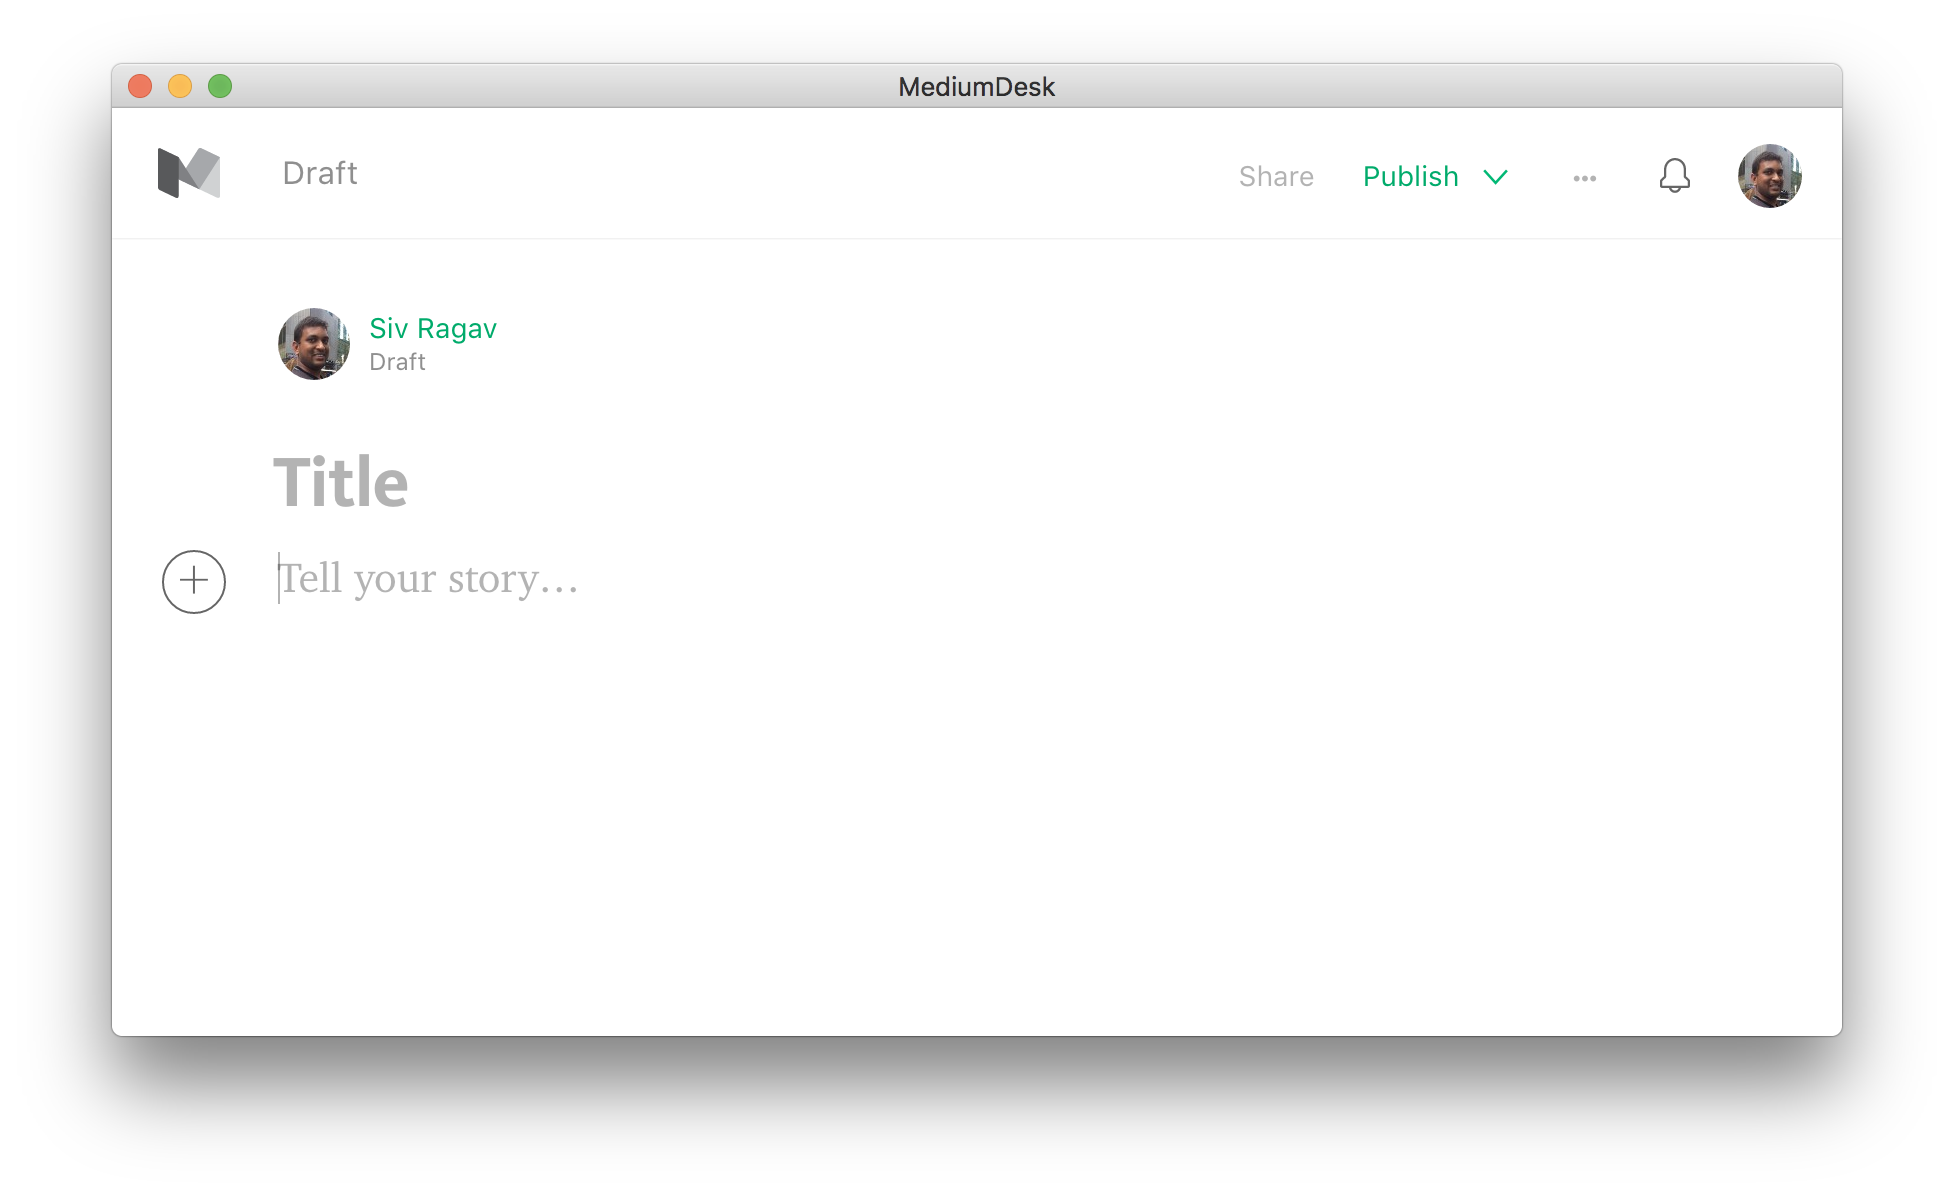
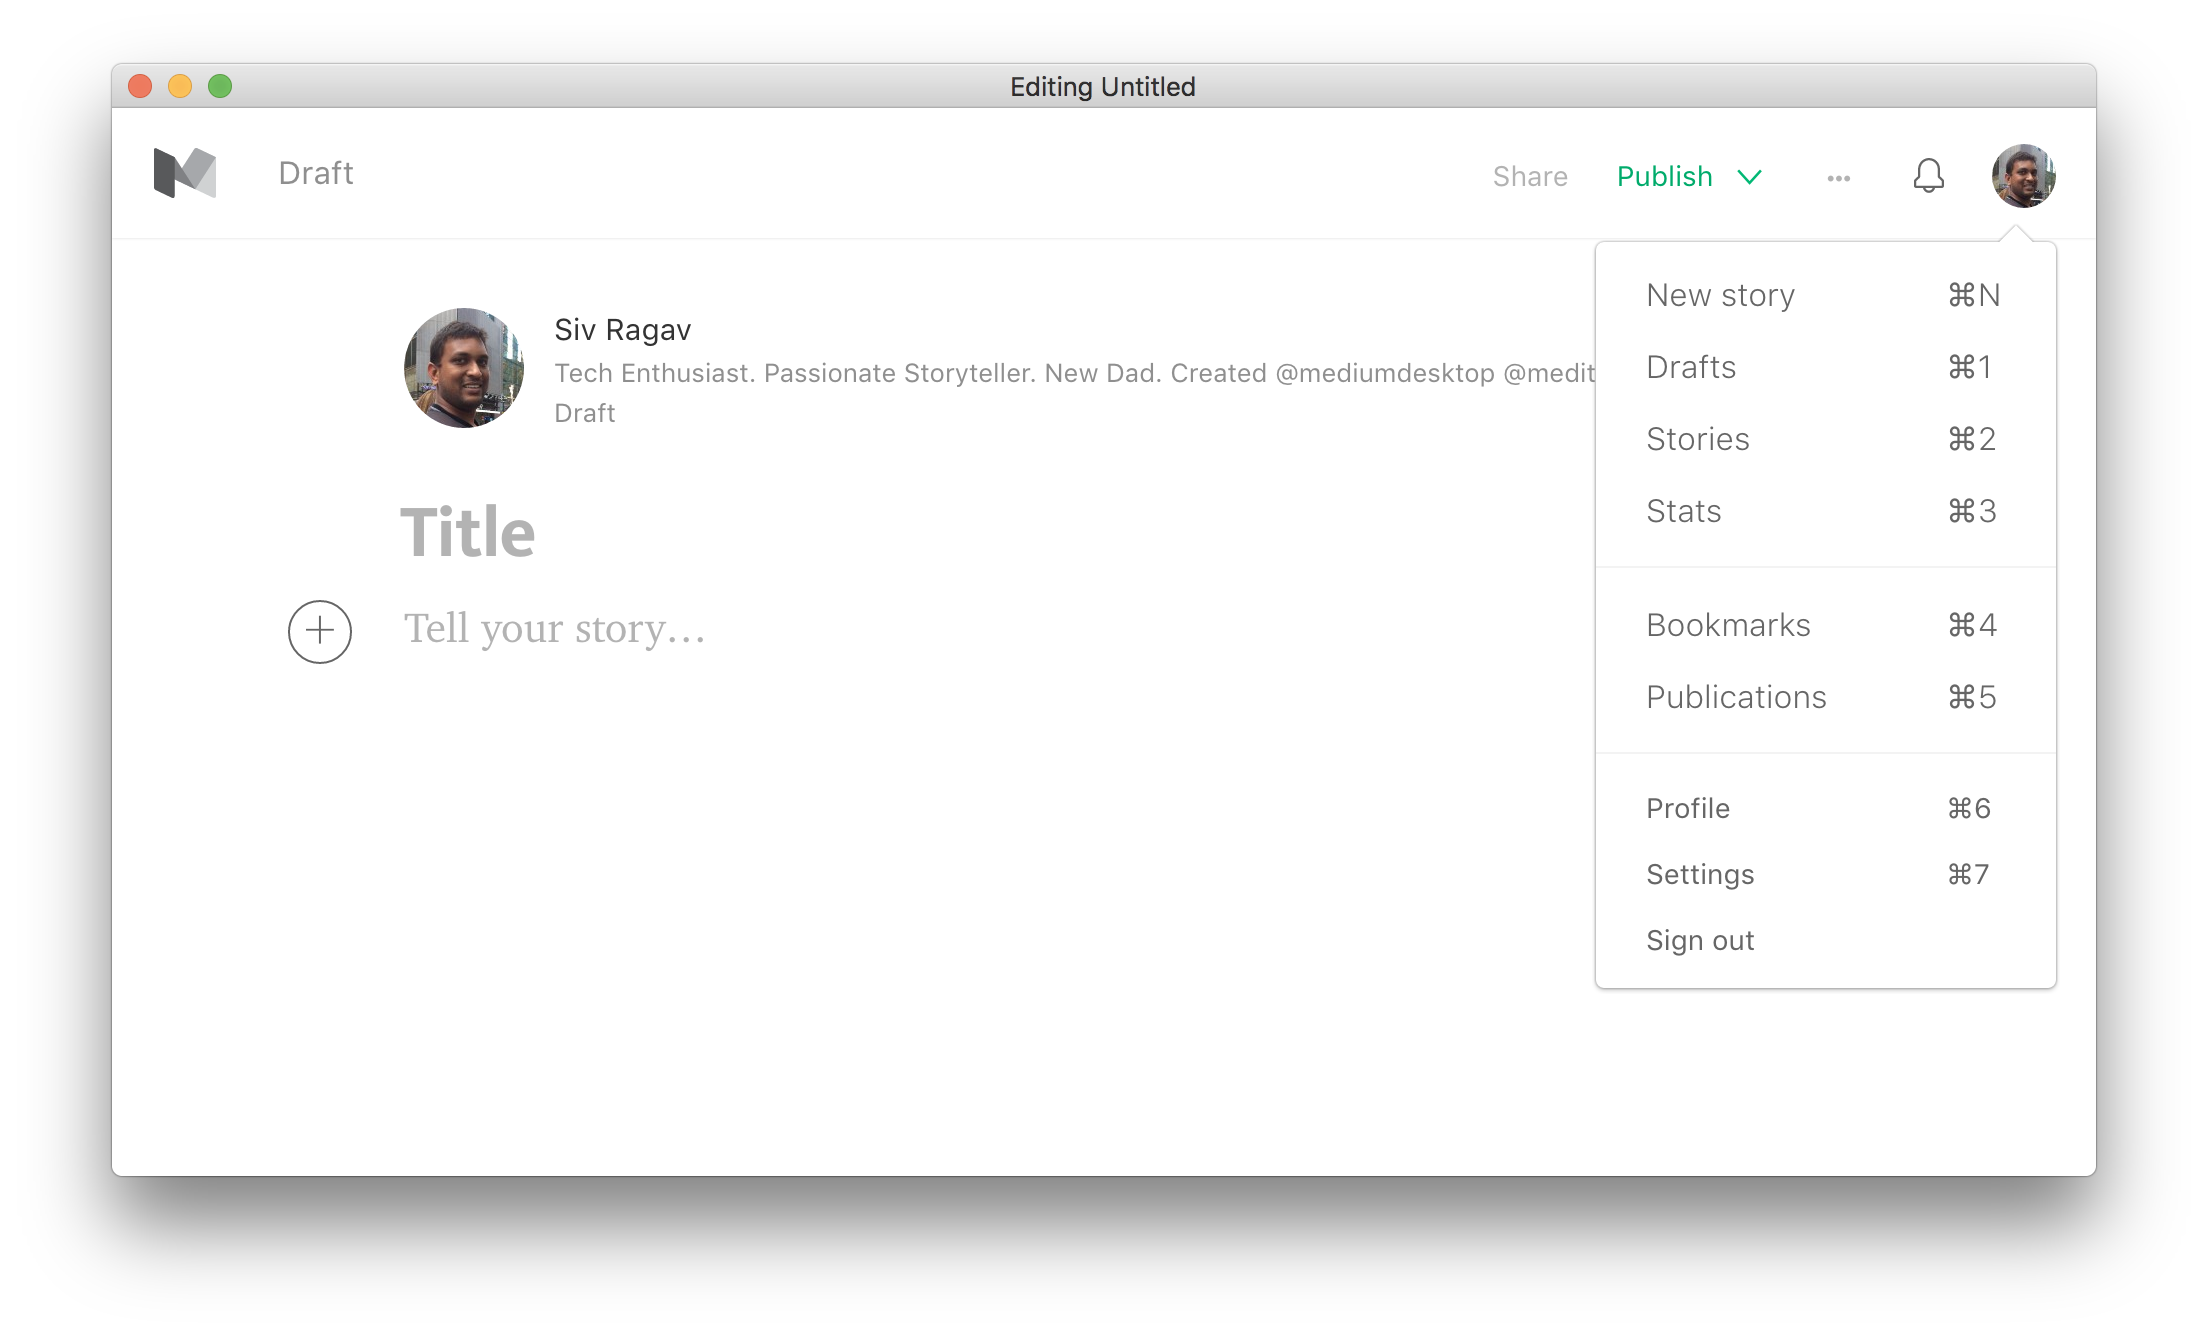
Updating screenshot

diff --git a/readme.md b/readme.md
@@ -2,7 +2,7 @@
 # MediumDesk [![Build Status](https://travis-ci.org/sivragav/mediumdesk.svg?branch=master)](https://travis-ci.org/sivragav/mediumdesk)
 MediumDesk is a simple app that lets you read and write Medium stories when you are at your desk. *Developed by Medium enthusiasts*
 
-[![](media/shortcuts.png)](https://github.com/sivragav/mediumdesk/releases/latest)
+[![](media/screenshot.png)](https://github.com/sivragav/mediumdesk/releases/latest)
 
 ## Download
 *(Current version : 0.2.1)*
